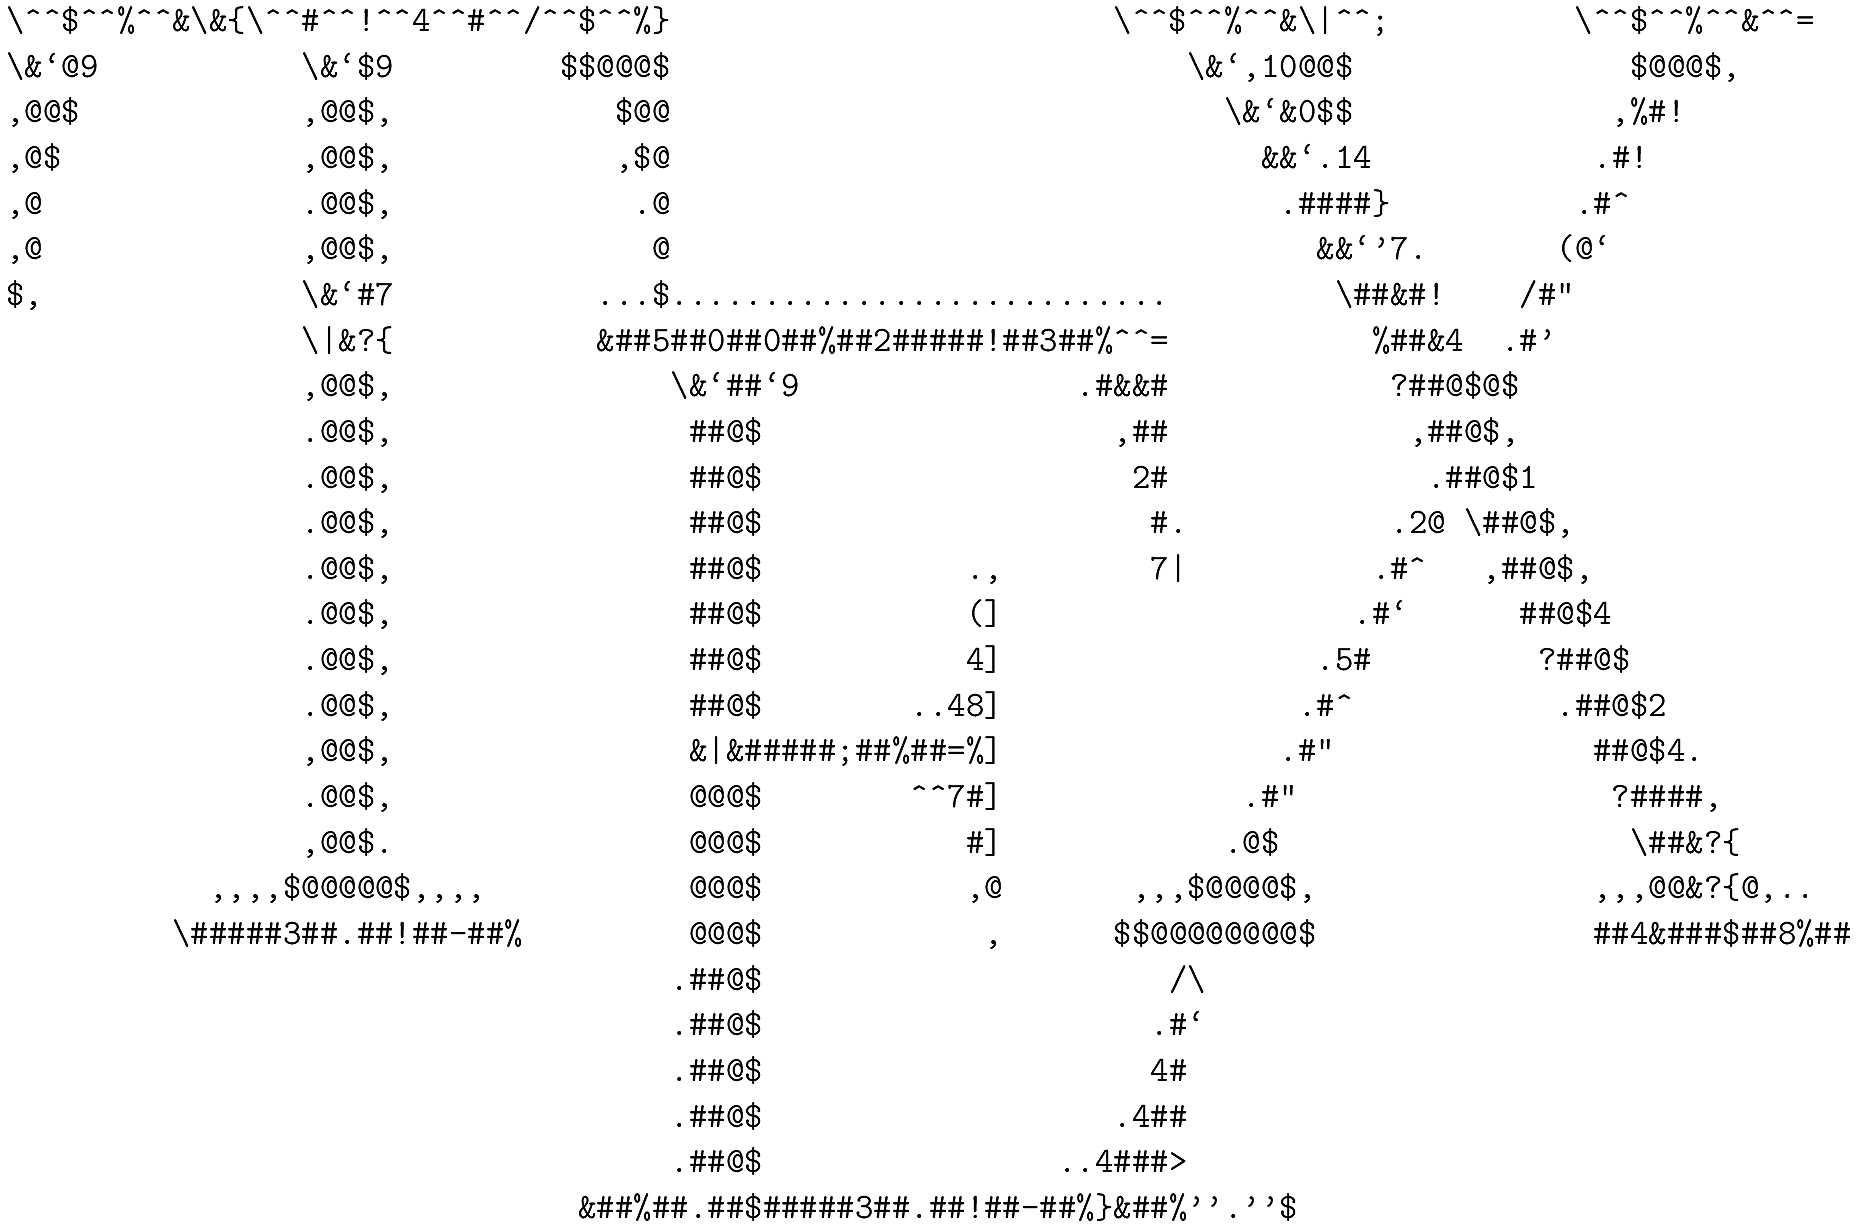
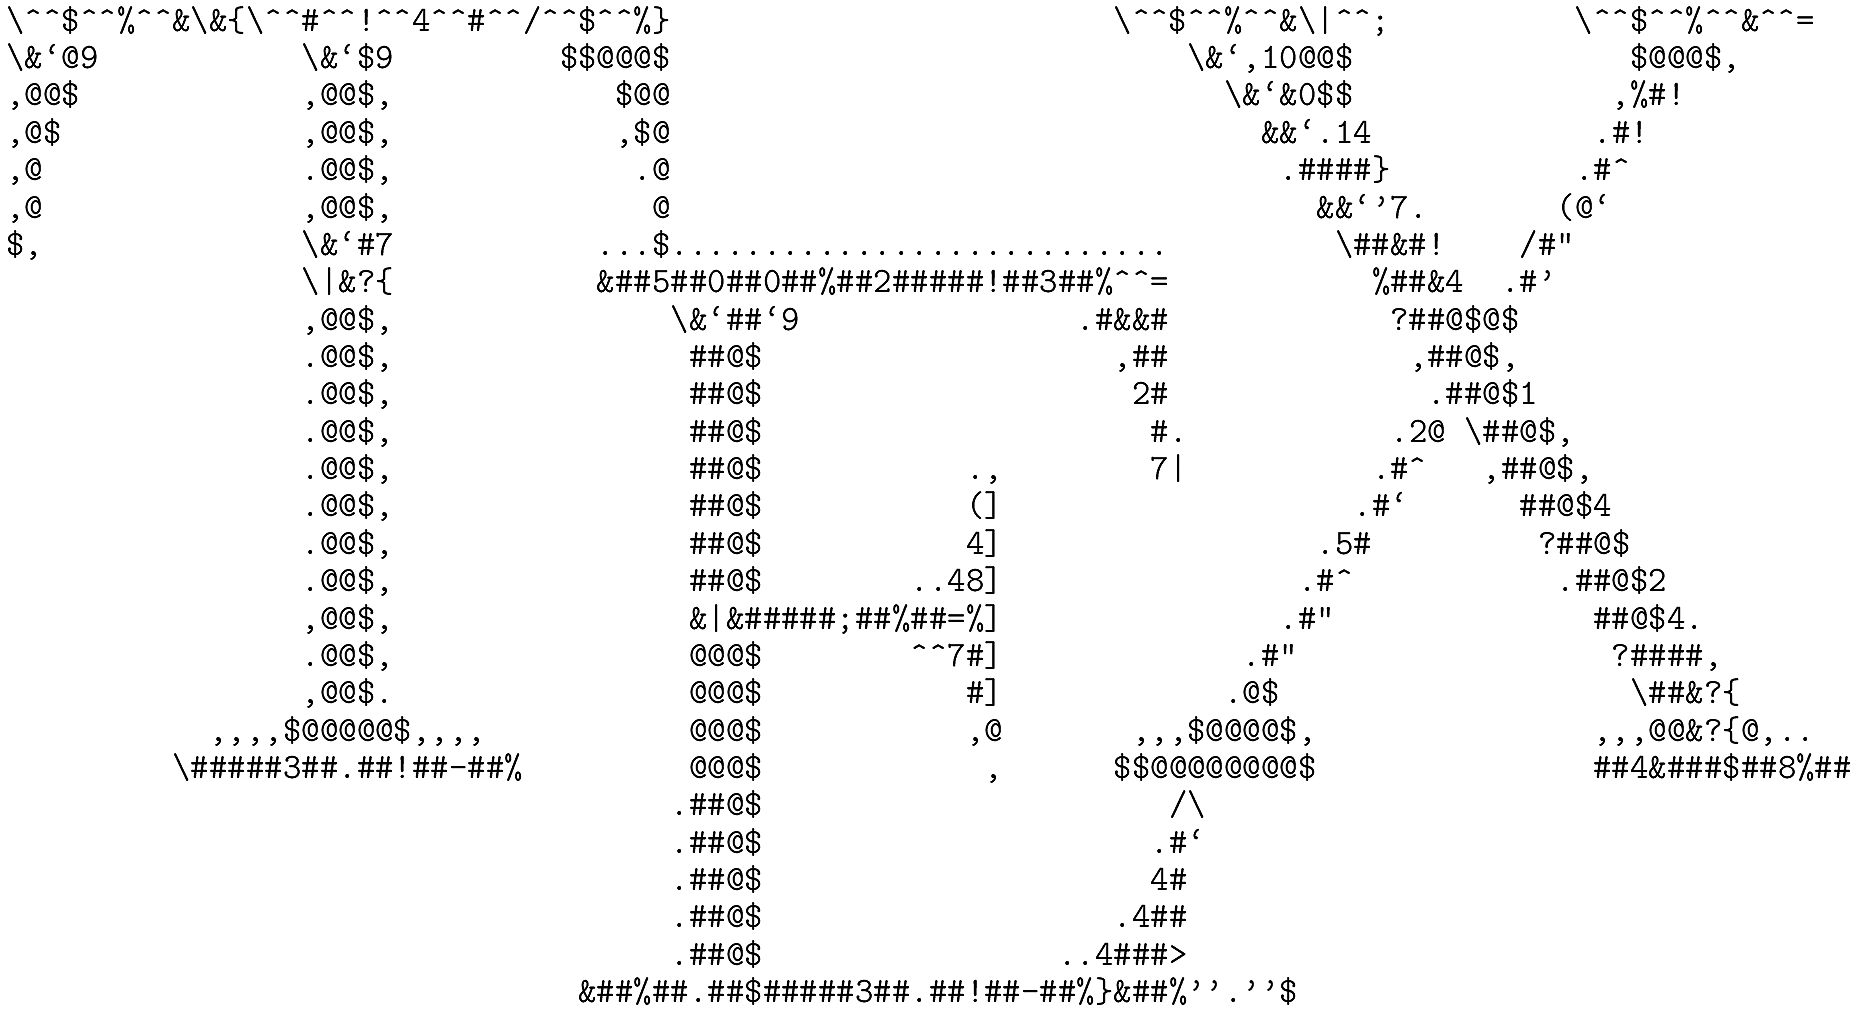
updated to lower height

diff --git a/aa-image.tex b/aa-image.tex
@@ -2,5 +2,5 @@
 \usepackage{verbatimbox}
 
 \begin{document}
-\verbfilenobox[\LARGE]{obfuscate.tex}
+\verbfilenobox[\LARGE\baselineskip=18pt]{obfuscate.tex}
 \end{document}
